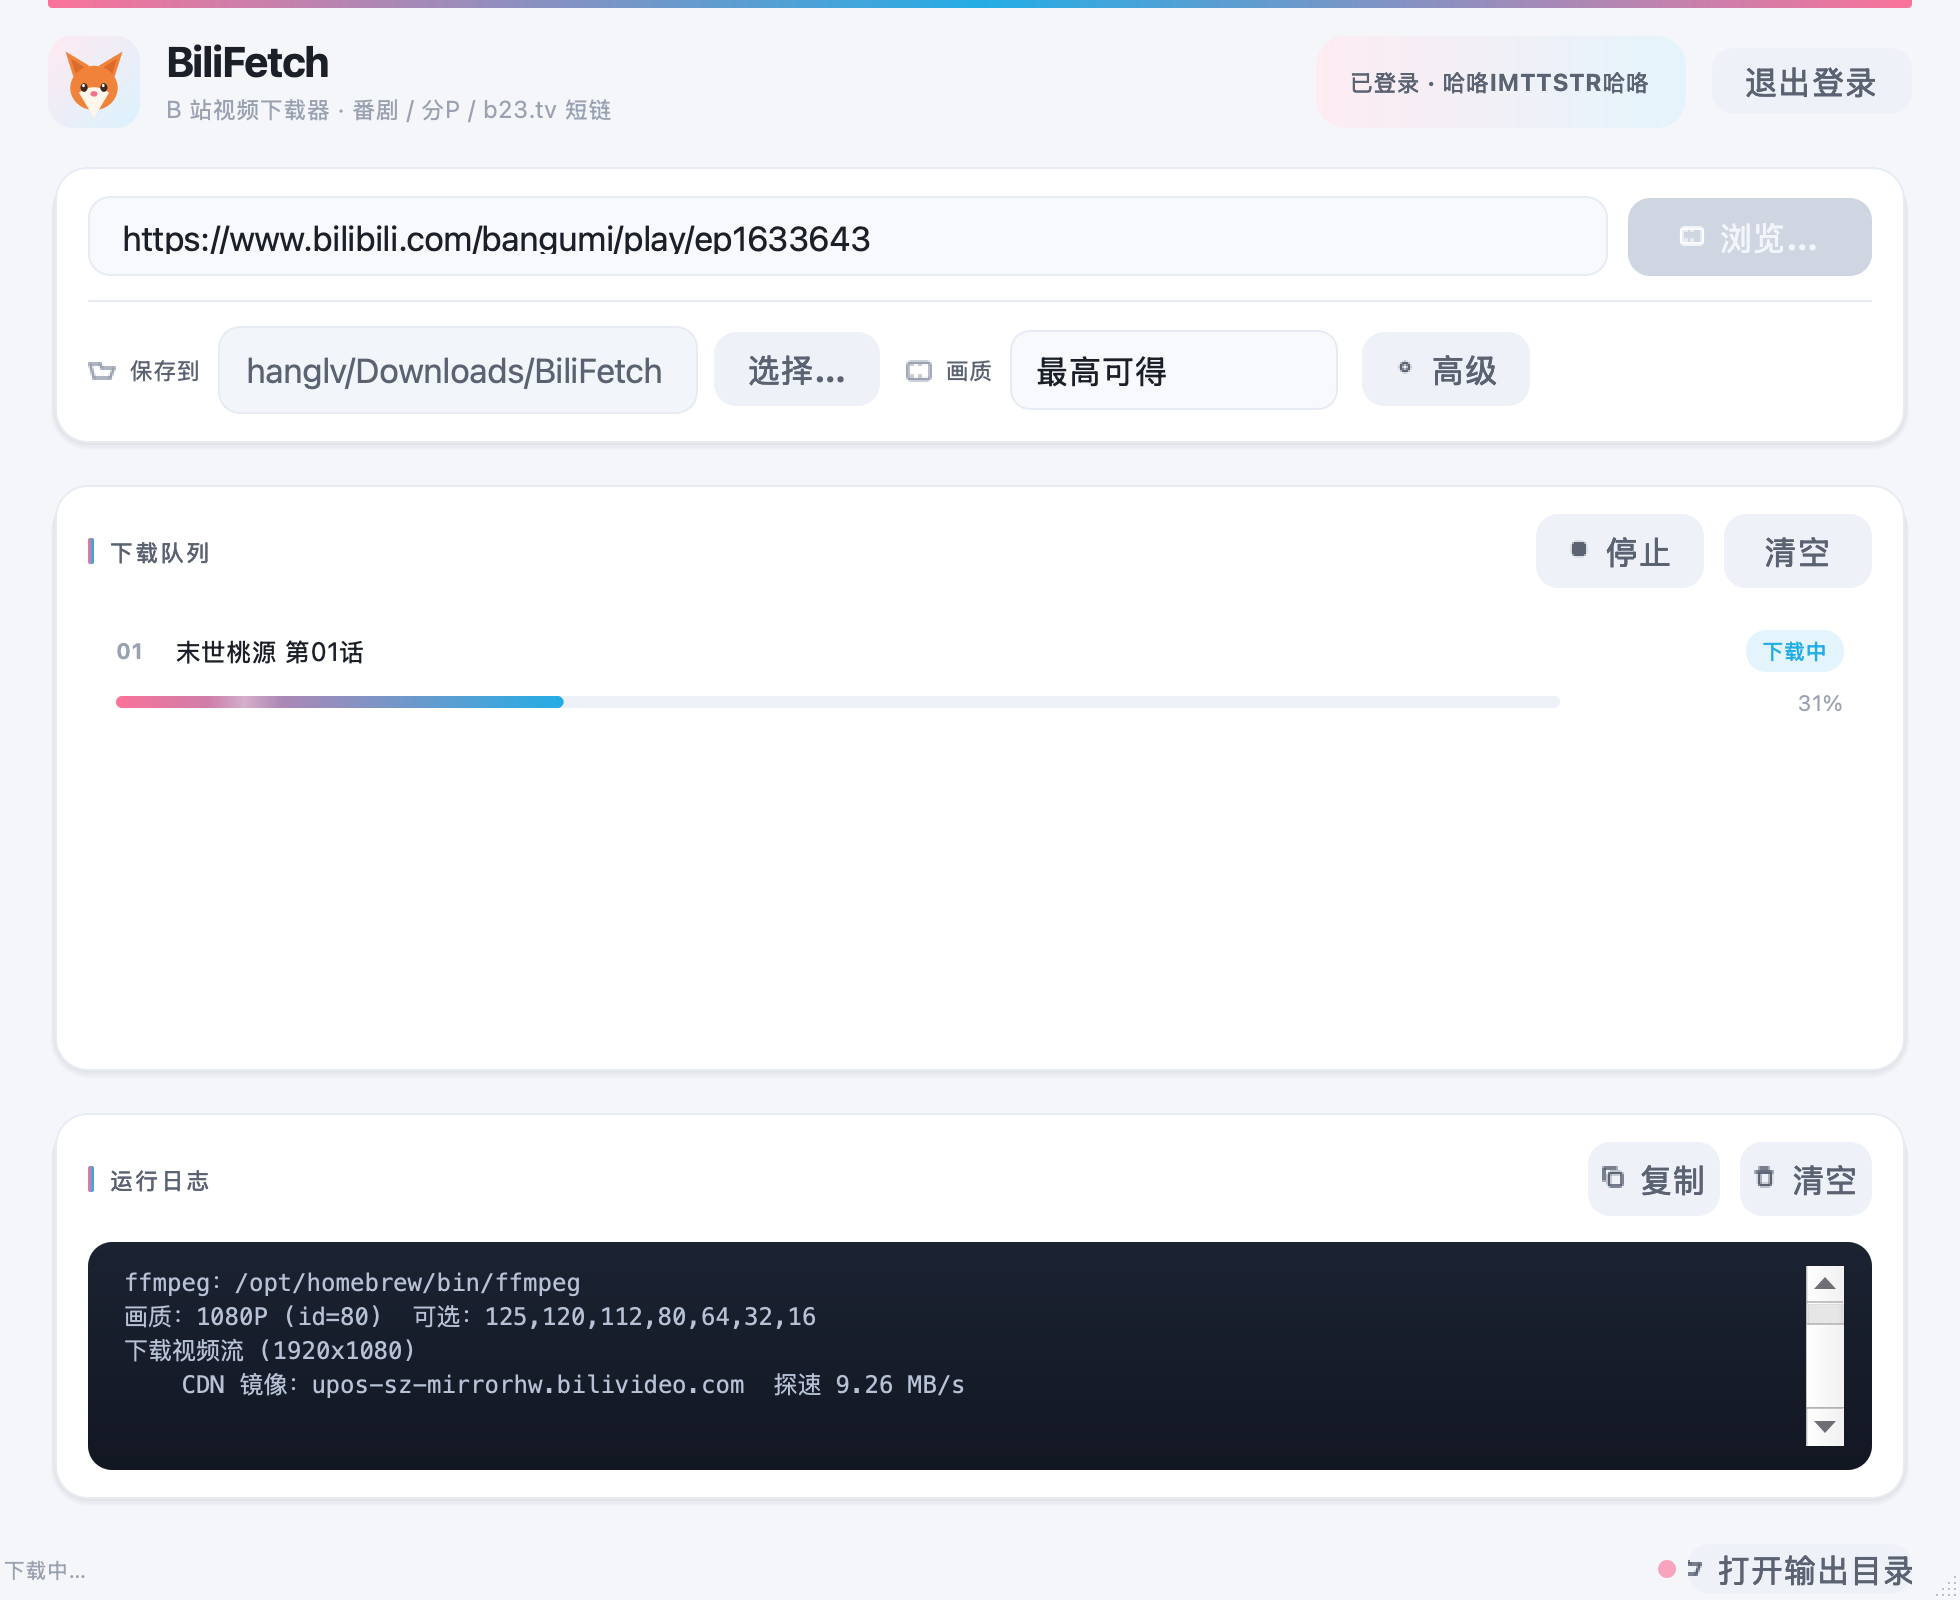
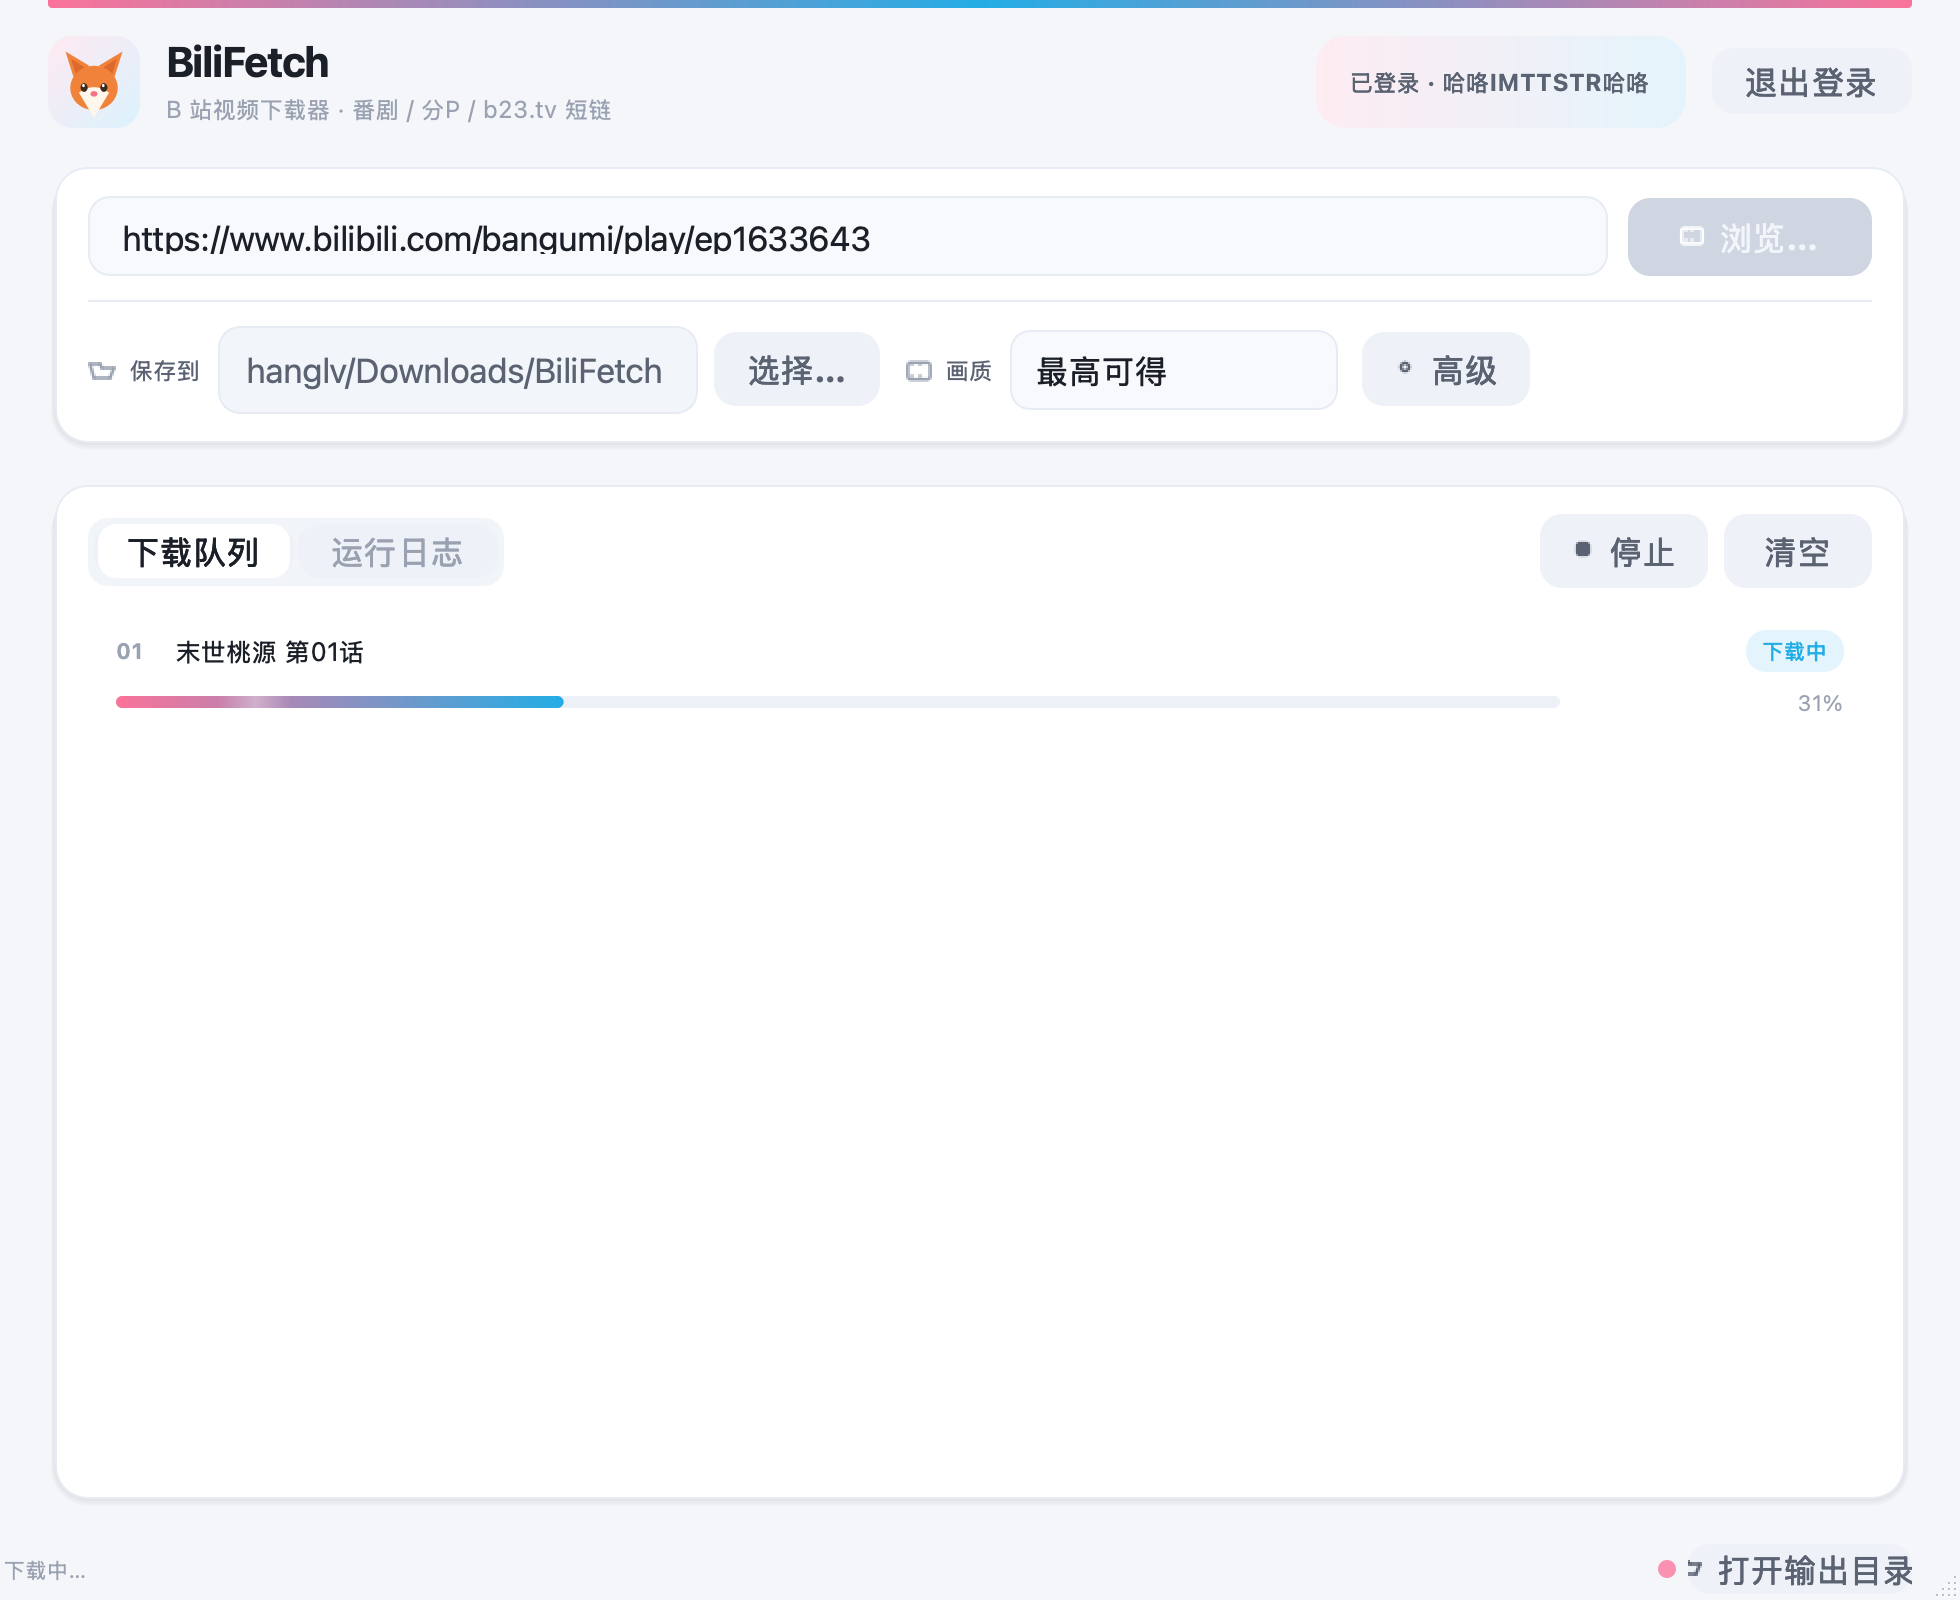
feat: 队列与日志合并成一张卡（分段切换），界面更紧凑
- 之前是两张卡各占一半高度，日志那块大部分时间是个空黑框，看着像没做完
- 现在同一张卡里用 [下载队列][运行日志] 分段切换，右上角按钮跟着换
  （队列页：停止/清空；日志页：复制/清空）
- 空状态的插画和文字整体居中，不再一上一下
- 没任务时「停止」按钮是灰的
- 新增功能都做了实测：只下音频 -> 只出 .m4a；退出登录 -> 清 cookie 并回到未登录态

diff --git a/bilifetch_gui.py b/bilifetch_gui.py
@@ -26,8 +26,8 @@ from PyQt5.QtGui import (QBrush, QColor, QFont, QFontMetrics, QIcon, QLinearGrad
 from PyQt5.QtWidgets import (QApplication, QCheckBox, QComboBox, QDialog, QFileDialog, QFrame,
                              QHBoxLayout, QLabel, QLineEdit,
                              QListWidget, QListWidgetItem, QMainWindow, QMessageBox,
-                             QPlainTextEdit, QPushButton, QSizePolicy, QStatusBar,
-                             QVBoxLayout, QWidget)
+                             QPlainTextEdit, QPushButton, QSizePolicy, QStackedWidget,
+                             QStatusBar, QVBoxLayout, QWidget)
 
 sys.path.insert(0, os.path.dirname(os.path.abspath(__file__)))
 import bilifetch as core          # noqa: E402
@@ -273,6 +273,7 @@ class FloatButton(QPushButton):
         self.kind = kind
         self._lift = 0.0
         self._icon = None
+        self._active = True
         self.setCursor(Qt.PointingHandCursor)
         self.setFixedHeight(38)
         self._anim = QPropertyAnimation(self, b"lift", self)
@@ -283,6 +284,11 @@ class FloatButton(QPushButton):
         """给按钮配一个小图标（自绘时一起画）。"""
         self._icon = make_icon(kind, color, size)
         self.updateGeometry()
+
+    def setActive(self, on):
+        """分段按钮用：选中的是白药丸，没选中的是透明。"""
+        self._active = on
+        self.update()
 
     def _get_lift(self):
         return self._lift
@@ -341,6 +347,17 @@ class FloatButton(QPushButton):
             path.addRoundedRect(QRectF(r).adjusted(0, lift, 0, -lift), 11, 11)
             p.drawPath(path)
             text_color = QColor(INK_2)
+        if self.kind == "tab":
+            # 分段按钮：选中的画成白药丸，没选中的留空
+            path = QPainterPath()
+            if self._active:
+                p.setBrush(QColor("#ffffff"))
+                p.setPen(Qt.NoPen)
+                path.addRoundedRect(QRectF(r).adjusted(2, lift, -2, -lift), 9, 9)
+                p.drawPath(path)
+                text_color = QColor(INK)
+            else:
+                text_color = QColor(INK_3)
         p.setPen(QPen(text_color))
         f = self.font()
         f.setWeight(QFont.DemiBold)
@@ -855,12 +872,29 @@ class MainWindow(QMainWindow):
         self.adv_card.setVisible(False)
         root.addWidget(self.adv_card)
 
-        # ---- 队列卡 ----
+        # ---- 队列 / 日志：同一张卡，分段切换 ----
+        # 之前是两张卡各占一半高度，日志那块大部分时间是个空黑框，看着像没做完。
         qcard = Card()
         qhead = QHBoxLayout()
-        qhead.setSpacing(10)
-        qtitle = SectionTitle("下载队列")
-        qhead.addWidget(qtitle, 1)
+        qhead.setSpacing(8)
+
+        track = QWidget()
+        track.setFixedHeight(34)
+        track.setStyleSheet("background:#F1F4F9; border-radius:10px;")
+        tlay = QHBoxLayout(track)
+        tlay.setContentsMargins(3, 3, 3, 3)
+        tlay.setSpacing(2)
+        self.tab_queue = FloatButton("下载队列", "tab")
+        self.tab_log = FloatButton("运行日志", "tab")
+        for b in (self.tab_queue, self.tab_log):
+            b.setFixedHeight(28)
+            b.setCursor(Qt.PointingHandCursor)
+            tlay.addWidget(b)
+        self.tab_queue.clicked.connect(lambda: self._switch_tab(True))
+        self.tab_log.clicked.connect(lambda: self._switch_tab(False))
+        qhead.addWidget(track)
+        qhead.addStretch(1)
+
         self.btn_stop = FloatButton("停止", "ghost")
         self.btn_stop.setGlyph("stop", INK_2, 13)
         self.btn_stop.setFixedWidth(84)
@@ -868,37 +902,6 @@ class MainWindow(QMainWindow):
         self.btn_clear = FloatButton("清空", "ghost")
         self.btn_clear.setFixedWidth(74)
         self.btn_clear.clicked.connect(self.on_clear)
-        qhead.addWidget(self.btn_stop)
-        qhead.addWidget(self.btn_clear)
-        qcard.layout.addLayout(qhead)
-
-        self.list = QListWidget()
-        self.list.setMinimumHeight(110)
-        self.empty_hint = QWidget()
-        eh = QVBoxLayout(self.empty_hint)
-        eh.setContentsMargins(0, 4, 0, 6)
-        eh.setSpacing(8)
-        art = EmptyArt()
-        eh.addWidget(art, 0, Qt.AlignHCenter)
-        tip = QLabel("还没有任务 —— 把 B 站链接粘到上面，点「浏览…」挑选内容")
-        tip.setObjectName("hint")
-        tip.setAlignment(Qt.AlignCenter)
-        eh.addWidget(tip)
-        qcard.layout.addWidget(self.empty_hint)
-        qcard.layout.addWidget(self.list, 1)
-        self.list.setVisible(False)
-        # 空状态是竖排的（插画在上、文字在下），卡片给够高度，
-        # 否则窗口一矮，Qt 会把两个控件压到重叠
-        qcard.setMinimumHeight(196)
-        root.addWidget(qcard, 3)
-        self.card_queue = qcard
-
-        # ---- 日志卡 ----
-        lcard = Card()
-        lhead = QHBoxLayout()
-        lhead.setSpacing(10)
-        ltitle = SectionTitle("运行日志")
-        lhead.addWidget(ltitle, 1)
         self.btn_copy = FloatButton("复制", "ghost")
         self.btn_copy.setGlyph("copy", INK_2, 13)
         self.btn_copy.setFixedWidth(66)
@@ -907,16 +910,54 @@ class MainWindow(QMainWindow):
         self.btn_logclear.setGlyph("trash", INK_2, 13)
         self.btn_logclear.setFixedWidth(66)
         self.btn_logclear.clicked.connect(self.on_clear_log)
-        lhead.addWidget(self.btn_copy)
-        lhead.addWidget(self.btn_logclear)
-        lcard.layout.addLayout(lhead)
+        for b in (self.btn_stop, self.btn_clear, self.btn_copy, self.btn_logclear):
+            qhead.addWidget(b)
+        qcard.layout.addLayout(qhead)
+
+        self.stack = QStackedWidget()
+
+        # 队列页
+        page_q = QWidget()
+        ql = QVBoxLayout(page_q)
+        ql.setContentsMargins(0, 0, 0, 0)
+        ql.setSpacing(8)
+        self.list = QListWidget()
+        self.list.setMinimumHeight(110)
+        self.empty_hint = QWidget()
+        eh = QVBoxLayout(self.empty_hint)
+        eh.setContentsMargins(0, 4, 0, 6)
+        eh.setSpacing(8)
+        eh.setAlignment(Qt.AlignHCenter | Qt.AlignVCenter)   # 插画和文字整体居中
+        art = EmptyArt()
+        eh.addWidget(art, 0, Qt.AlignHCenter)
+        tip = QLabel("还没有任务 —— 把 B 站链接粘到上面，点「浏览…」挑选内容")
+        tip.setObjectName("hint")
+        tip.setAlignment(Qt.AlignCenter)
+        eh.addWidget(tip)
+        ql.addWidget(self.empty_hint)
+        ql.addWidget(self.list, 1)
+        self.list.setVisible(False)
+        self.stack.addWidget(page_q)
+
+        # 日志页
+        page_l = QWidget()
+        ll = QVBoxLayout(page_l)
+        ll.setContentsMargins(0, 0, 0, 0)
         self.log_view = QPlainTextEdit()
         self.log_view.setReadOnly(True)
         self.log_view.setMinimumHeight(108)
         self.log_view.setMaximumBlockCount(3000)
-        lcard.layout.addWidget(self.log_view, 1)
-        root.addWidget(lcard, 2)
-        self.card_log = lcard
+        ll.addWidget(self.log_view, 1)
+        self.stack.addWidget(page_l)
+
+        qcard.layout.addWidget(self.stack, 1)
+        # 空状态是竖排的（插画在上、文字在下），卡片给够高度，
+        # 否则窗口一矮，Qt 会把两个控件压到重叠
+        qcard.setMinimumHeight(240)
+        root.addWidget(qcard, 1)
+        self.card_queue = qcard
+        self.card_log = qcard
+        self._switch_tab(True)
 
         self.setCentralWidget(central)
 
@@ -966,11 +1007,22 @@ class MainWindow(QMainWindow):
         anim.start()
         self._anims.append(anim)
 
-        for i, card in enumerate((self.card_link, self.card_queue, self.card_log)):
+        for i, card in enumerate((self.card_link, self.card_queue)):
             QTimer.singleShot(60 + i * 70, lambda c=card: self._fade_in(c))
 
     def _fade_in(self, widget):
         fade_in(widget, 280, PAGE)
+
+    def _switch_tab(self, show_queue):
+        """队列 / 日志 两个分段。"""
+        self.stack.setCurrentIndex(0 if show_queue else 1)
+        self.tab_queue.setActive(show_queue)
+        self.tab_log.setActive(not show_queue)
+        self.btn_stop.setVisible(show_queue)
+        self.btn_clear.setVisible(show_queue)
+        self.btn_stop.setEnabled(bool(self.worker))      # 没任务时「停止」是灰的
+        self.btn_copy.setVisible(not show_queue)
+        self.btn_logclear.setVisible(not show_queue)
 
     def _toggle_adv(self):
         """齿轮按钮：展开/收起高级设置。"""
@@ -1147,6 +1199,7 @@ class MainWindow(QMainWindow):
         self.empty_hint.setVisible(False)
         self.btn_start.setEnabled(False)
         self.btn_start.setText("下载中…")
+        self.btn_stop.setEnabled(True)
         self.dot.setVisible(True)
         self.status_msg.setText("下载中…")
 
